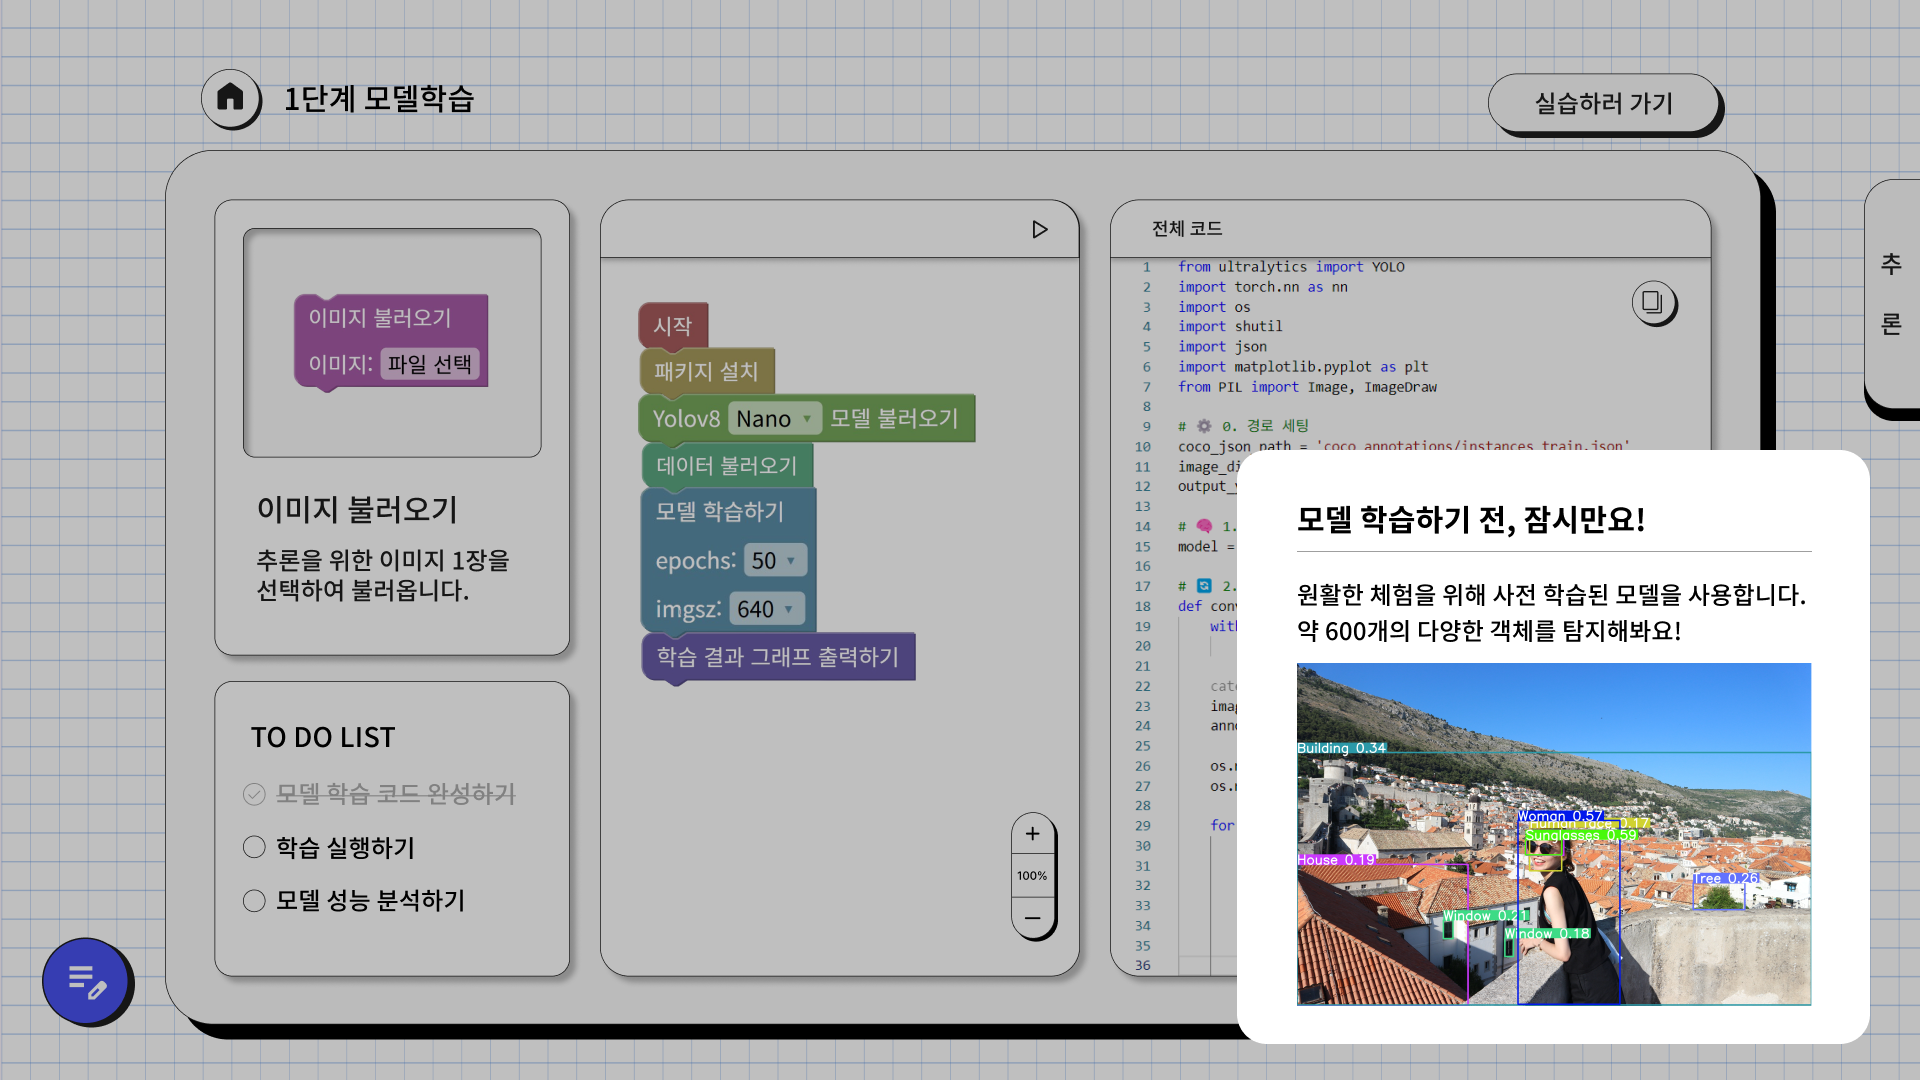
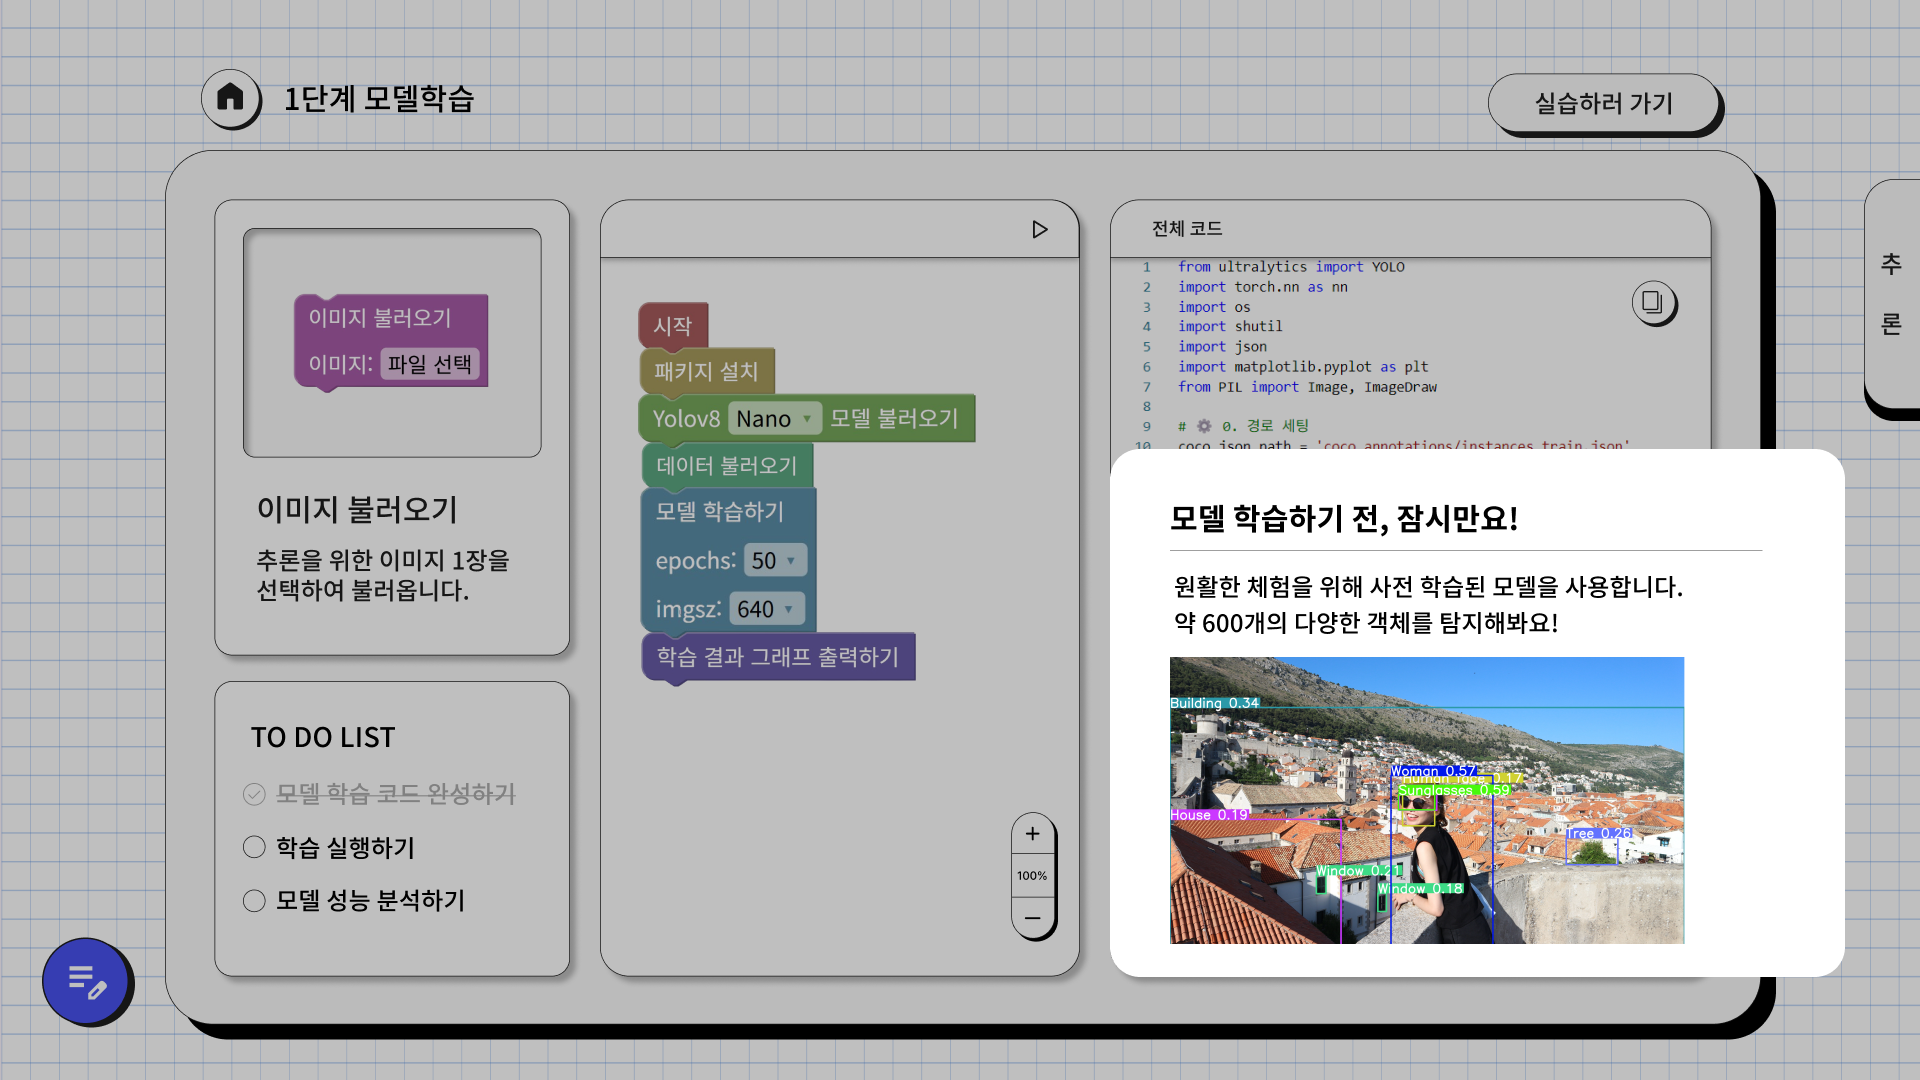
refactor: 추론 배경 검정색으로 변경, 튜토리얼 가이드 변경
- 변경 완료

Changed region(s): [[0.5625, 0.3972, 1.0, 0.9778]]

diff --git a/app/SAI/SAI/SAI.App/Views/Pages/UcLabelGuide.Designer.cs b/app/SAI/SAI/SAI.App/Views/Pages/UcLabelGuide.Designer.cs
@@ -40,7 +40,7 @@ namespace SAI.SAI.App.Views.Pages
             this.progressBox = new Guna.UI2.WinForms.Guna2Panel();
             this.progressClass = new Guna.UI2.WinForms.Guna2Panel();
             this.panel1 = new System.Windows.Forms.Panel();
-            this.class3 = new SAI.SAI.App.Views.Pages.AutoSizeLabel();
+            this.class3 = new SAI.App.Views.Pages.AutoSizeLabel();
             this.classBtn = new Guna.UI2.WinForms.Guna2CircleButton();
             this.imageContainer = new Guna.UI2.WinForms.Guna2GradientPanel();
             this.toolHandPanel = new Guna.UI2.WinForms.Guna2Panel();
@@ -53,7 +53,7 @@ namespace SAI.SAI.App.Views.Pages
             this.popupCloseBtn = new Guna.UI2.WinForms.Guna2Button();
             this.accuracyPanel = new Guna.UI2.WinForms.Guna2Panel();
             this.tableLayoutPanel2 = new System.Windows.Forms.TableLayoutPanel();
-            this.accuracyLabel1 = new SAI.SAI.App.Views.Pages.AutoSizeLabel();
+            this.accuracyLabel1 = new SAI.App.Views.Pages.AutoSizeLabel();
             this.levelPanel = new Guna.UI2.WinForms.Guna2Panel();
             this.guna2Panel1 = new Guna.UI2.WinForms.Guna2Panel();
             this.questBoxPanel = new Guna.UI2.WinForms.Guna2Panel();
@@ -82,22 +82,22 @@ namespace SAI.SAI.App.Views.Pages
             this.homeBtn = new Guna.UI2.WinForms.Guna2Button();
             this.pTotal = new Guna.UI2.WinForms.Guna2Panel();
             this.pLow90 = new Guna.UI2.WinForms.Guna2Panel();
-            this.lTotalAccuracy = new SAI.SAI.App.Views.Pages.AutoSizeLabel();
-            this.lSeg5 = new SAI.SAI.App.Views.Pages.AutoSizeLabel();
-            this.lSeg4 = new SAI.SAI.App.Views.Pages.AutoSizeLabel();
-            this.lSeg3 = new SAI.SAI.App.Views.Pages.AutoSizeLabel();
-            this.lSeg2 = new SAI.SAI.App.Views.Pages.AutoSizeLabel();
-            this.lSeg1 = new SAI.SAI.App.Views.Pages.AutoSizeLabel();
-            this.lBox5 = new SAI.SAI.App.Views.Pages.AutoSizeLabel();
-            this.lBox4 = new SAI.SAI.App.Views.Pages.AutoSizeLabel();
-            this.lBox3 = new SAI.SAI.App.Views.Pages.AutoSizeLabel();
-            this.lBox2 = new SAI.SAI.App.Views.Pages.AutoSizeLabel();
-            this.lBox1 = new SAI.SAI.App.Views.Pages.AutoSizeLabel();
-            this.lClass5 = new SAI.SAI.App.Views.Pages.AutoSizeLabel();
-            this.lClass4 = new SAI.SAI.App.Views.Pages.AutoSizeLabel();
-            this.lClass3 = new SAI.SAI.App.Views.Pages.AutoSizeLabel();
-            this.lClass2 = new SAI.SAI.App.Views.Pages.AutoSizeLabel();
-            this.lClass1 = new SAI.SAI.App.Views.Pages.AutoSizeLabel();
+            this.lTotalAccuracy = new SAI.App.Views.Pages.AutoSizeLabel();
+            this.lSeg5 = new SAI.App.Views.Pages.AutoSizeLabel();
+            this.lSeg4 = new SAI.App.Views.Pages.AutoSizeLabel();
+            this.lSeg3 = new SAI.App.Views.Pages.AutoSizeLabel();
+            this.lSeg2 = new SAI.App.Views.Pages.AutoSizeLabel();
+            this.lSeg1 = new SAI.App.Views.Pages.AutoSizeLabel();
+            this.lBox5 = new SAI.App.Views.Pages.AutoSizeLabel();
+            this.lBox4 = new SAI.App.Views.Pages.AutoSizeLabel();
+            this.lBox3 = new SAI.App.Views.Pages.AutoSizeLabel();
+            this.lBox2 = new SAI.App.Views.Pages.AutoSizeLabel();
+            this.lBox1 = new SAI.App.Views.Pages.AutoSizeLabel();
+            this.lClass5 = new SAI.App.Views.Pages.AutoSizeLabel();
+            this.lClass4 = new SAI.App.Views.Pages.AutoSizeLabel();
+            this.lClass3 = new SAI.App.Views.Pages.AutoSizeLabel();
+            this.lClass2 = new SAI.App.Views.Pages.AutoSizeLabel();
+            this.lClass1 = new SAI.App.Views.Pages.AutoSizeLabel();
             this.pbSeg5 = new Guna.UI2.WinForms.Guna2PictureBox();
             this.pbSeg3 = new Guna.UI2.WinForms.Guna2PictureBox();
             this.pbSeg4 = new Guna.UI2.WinForms.Guna2PictureBox();

diff --git a/app/SAI/SAI/SAI.App/Views/Pages/UcBlockGuide.cs b/app/SAI/SAI/SAI.App/Views/Pages/UcBlockGuide.cs
@@ -14,7 +14,7 @@ namespace SAI.SAI.App.Views.Pages
 
         private string[] imageNames = new string[]
         {
-            "bg_blockGuide1",
+            "bg_startcamp_guide",
             "bg_blockGuide2",
             "bg_blockGuide3",
             "bg_blockGuide4",

diff --git a/app/SAI/SAI/SAI.App/Views/Pages/UcTutorialBlockCode.cs b/app/SAI/SAI/SAI.App/Views/Pages/UcTutorialBlockCode.cs
@@ -34,7 +34,7 @@ namespace SAI.SAI.App.Views.Pages
         private DialogInferenceLoading dialogLoadingInfer;
 
         private BlocklyModel blocklyModel;
-
+        
         private readonly IMainView mainView;
 
         public event EventHandler HomeButtonClicked;
